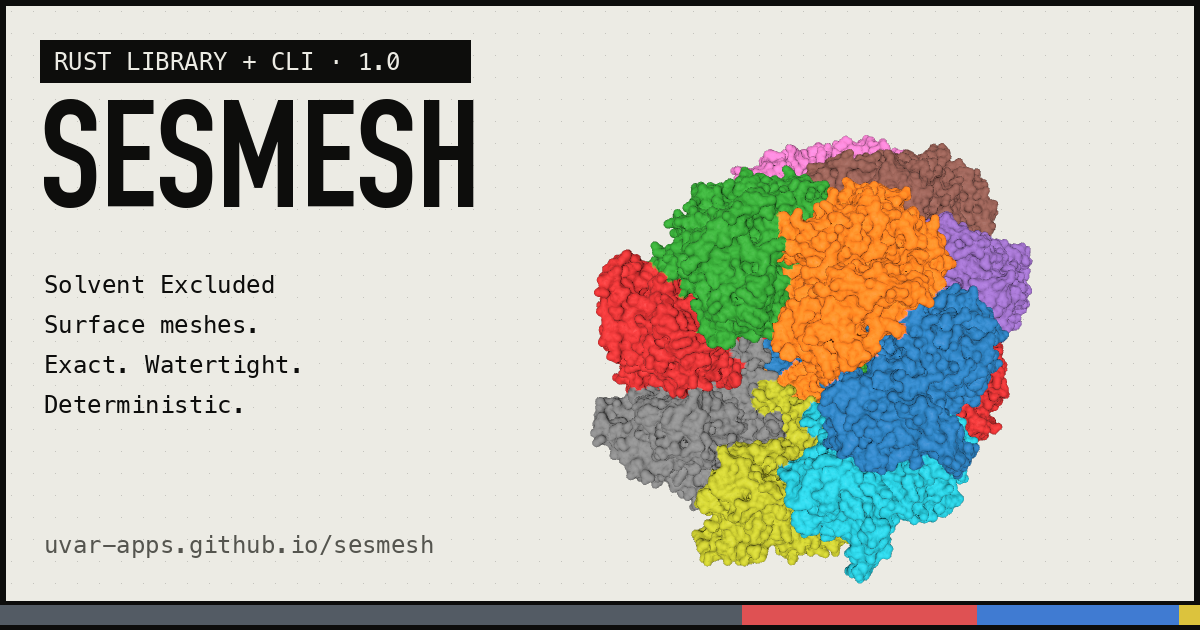
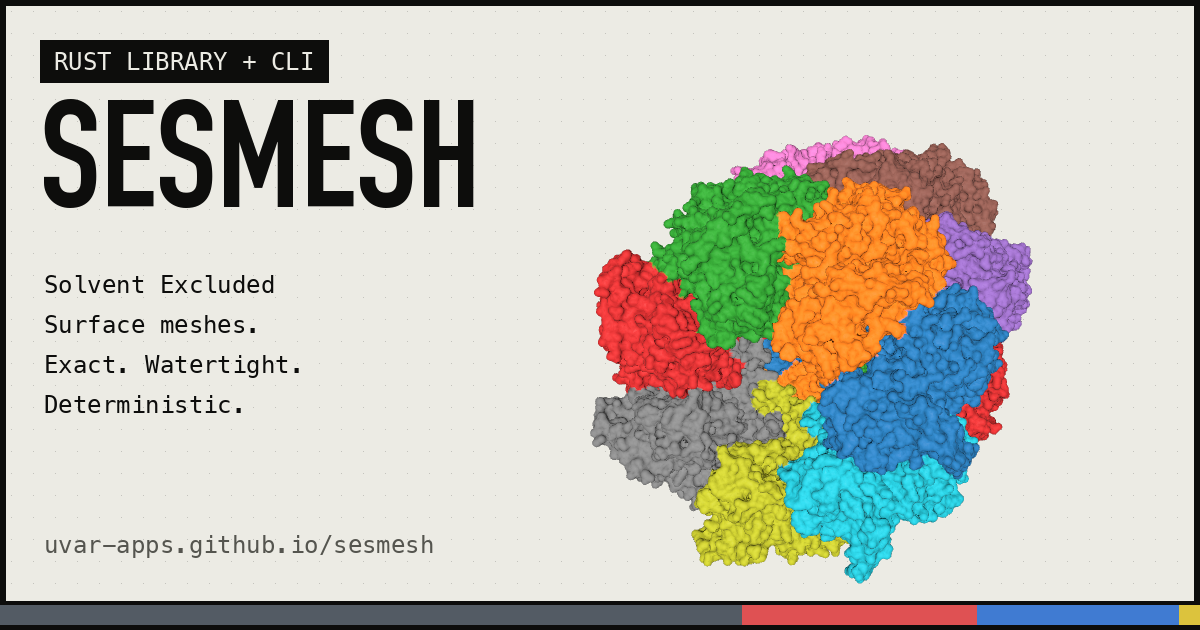
Update the website for 1.1.0
- Version badge, hero label and library notes say 1.1.0; every library
  snippet re-compiled against release-1.1.0 (examples unchanged).
- CLI guide: --drop-fragments (opt-in, 4HHB at 0.25 A: 32 components
  instead of 33) and the memory guard described as a conservative
  estimate of the whole run's peak, printed in the summary.
- Library guide: with_remove_fragments in the parameter table and the
  params snippet; stats mention removed fragments and the estimate.
- Capsid tutorial: 1.1.0 output under --max-memory 1G --auto-coarsen
  (grid 2.402 A, estimate 1008.2 MiB, measured peak about 0.65 GB).
- Social card label without a version (no re-render per release).

Changed region(s): [[0.2467, 0.0603, 0.4008, 0.1508]]

diff --git a/site/tutorials.html b/site/tutorials.html
@@ -15,7 +15,7 @@
 <body>
 
 <header class="top">
-  <a class="brand" href="./">sesmesh <small>1.0.0</small></a>
+  <a class="brand" href="./">sesmesh <small>1.1.0</small></a>
   <ul class="nav">
     <li><a href="./">Home</a></li>
     <li><a href="cli.html">CLI</a></li>
@@ -33,7 +33,7 @@
   <div class="wrap pagehead">
     <span class="label inv">Learn · four walkthroughs</span>
     <h1>Tuto<span class="knock">rials</span></h1>
-    <p class="lede">Four short, complete walkthroughs with real inputs from the PDB and the output they produce. Commands assume <code>sesmesh</code> 1.0 on your <code>PATH</code> (<code>cargo install sesmesh-cli</code>), plus <code>curl</code> and <code>jq</code>.</p>
+    <p class="lede">Four short, complete walkthroughs with real inputs from the PDB and the output they produce. Commands assume <code>sesmesh</code> 1.1 on your <code>PATH</code> (<code>cargo install sesmesh-cli</code>), plus <code>curl</code> and <code>jq</code>.</p>
   </div>
 </section>
 
@@ -115,14 +115,16 @@ for (chain, name, seq), a in sorted(area.items(), key=lambda kv: -kv[1])[:10]:
 <pre><code><span class="p">$ </span>curl -LO https://files.rcsb.org/download/1K4R.cif.gz
 <span class="p">$ </span>sesmesh info 1K4R.cif.gz
 <span class="c">chains: 3 (A:3028 B:3028 C:3028)</span>
-<span class="c">assemblies: 1 (60 copies), 2 (1 copy), 3 (5 copies), 4 (6 copies), 5 (1 copy)</span></code></pre></div></li><li><h3>Mesh 545 040 atoms</h3><p>The full dengue virus capsid at 1 Å: about 10 s and 9.9 million triangles on a 10-core laptop, peak memory ≈ 1.7 GB.</p><div class="code"><div class="code-head"><span>Shell</span><button type="button">Copy</button></div>
+<span class="c">assemblies: 1 (60 copies), 2 (1 copy), 3 (5 copies), 4 (6 copies), 5 (1 copy)</span></code></pre></div></li><li><h3>Mesh 545 040 atoms</h3><p>The full dengue virus capsid at 1 Å: about 10 s and 9.9 million triangles on a 10-core laptop, in under 2 GB of memory.</p><div class="code"><div class="code-head"><span>Shell</span><button type="button">Copy</button></div>
 <pre><code><span class="p">$ </span>sesmesh 1K4R.cif.gz --assembly 1 -q draft --progress --timings -o capsid.ply
 <span class="c">sesmesh: 4937664 vertices, 9883296 triangles, 1123 component(s) (1098 cavities), ...</span></code></pre></div></li><li><h3>Make it viewer-friendly</h3><p>Cap the triangle count and colour by chain; decimation keeps the surface exact where it keeps vertices.</p><div class="code"><div class="code-head"><span>Shell</span><button type="button">Copy</button></div>
 <pre><code><span class="p">$ </span>sesmesh 1K4R.cif.gz --assembly 1 -q draft --max-triangles 1500000 \
-<span class="c">    --vertex-colors chain -o capsid-1.5M.ply</span></code></pre></div></li><li><h3>Set a memory budget</h3><p>With <code>--max-memory</code> alone, inputs whose estimate exceeds the limit stop with exit code 4. Add <code>--auto-coarsen</code> to grow the spacing until the estimate fits; the spacing used is printed and stored in the file header.</p><div class="code"><div class="code-head"><span>Shell</span><button type="button">Copy</button></div>
+<span class="c">    --vertex-colors chain -o capsid-1.5M.ply</span></code></pre></div></li><li><h3>Set a memory budget</h3><p>Before any mesh exists, sesmesh estimates the peak memory of the whole run. With <code>--max-memory</code> alone, inputs whose estimate exceeds the limit stop with exit code 4. Add <code>--auto-coarsen</code> to grow the spacing until the estimate fits; the spacing used and the estimate are printed, and the statistics JSON records them (<code>engine.estimated_memory</code>, <code>engine.estimated_triangles</code>).</p><div class="code"><div class="code-head"><span>Shell</span><button type="button">Copy</button></div>
 <pre><code><span class="p">$ </span>sesmesh 1K4R.cif.gz --assembly 1 -q high --max-memory 1G --auto-coarsen \
 <span class="c">    --max-triangles 1500000 -o capsid.ply</span>
-<span class="c">sesmesh: ... 545040 atoms (model 1), ses surface, probe 1.40 Å, grid 1.918 Å</span></code></pre></div><div class="note hot">The limit applies to the <i>estimate</i> (150 bytes per triangle + 800 bytes per atom). The measured peak of this run was 1.46 GB — leave headroom.</div></li><li><h3>Stop any time</h3><p>Ctrl-C cancels within about 100 ms and exits with code 130.</p></li></ol>
+<span class="c">sesmesh: ... 545040 atoms (model 1), ses surface, probe 1.40 Å, grid 2.402 Å</span>
+<span class="c">sesmesh: estimated peak memory 1008.2 MiB (limit 1024.0 MiB, about 1837964 triangles before decimation)</span>
+<span class="c">sesmesh: 745560 vertices, 1500000 triangles, 979 component(s) (810 cavities), ...</span></code></pre></div><div class="note">The estimate is deliberately conservative: this run peaked at about 0.65 GB against an estimate of 1008 MiB. The grid chosen and the estimate are the same on every run and for any thread count.</div></li><li><h3>Stop any time</h3><p>Ctrl-C cancels within about 100 ms and exits with code 130.</p></li></ol>
     </section>
 
     <section id="rust">

diff --git a/site/library.html b/site/library.html
@@ -15,7 +15,7 @@
 <body>
 
 <header class="top">
-  <a class="brand" href="./">sesmesh <small>1.0.0</small></a>
+  <a class="brand" href="./">sesmesh <small>1.1.0</small></a>
   <ul class="nav">
     <li><a href="./">Home</a></li>
     <li><a href="cli.html">CLI</a></li>
@@ -33,7 +33,7 @@
   <div class="wrap pagehead">
     <span class="label inv">Guide · Rust crate</span>
     <h1>The <span class="knock">Library</span></h1>
-    <p class="lede">The engine behind the CLI as a crate: <code>sesmesh = "1"</code>. Every snippet on this page compiles against 1.0.0; the <a href="https://docs.rs/sesmesh">API reference</a> documents every public item.</p>
+    <p class="lede">The engine behind the CLI as a crate: <code>sesmesh = "1"</code>. Every snippet on this page compiles against 1.1.0; the <a href="https://docs.rs/sesmesh">API reference</a> documents every public item.</p>
   </div>
 </section>
 
@@ -138,6 +138,7 @@ assert_eq!(out.stats.components, <span class="n">1</span>);</code></pre></div>
     .with_spacing(<span class="n">0.25</span>)                    <span class="c">// grid spacing in Å</span>
     .with_cavities(CavityMode::Re<span class="k">move</span>)     <span class="c">// drop internal cavities</span>
     .with_smoothing(<span class="n">2</span>)                     <span class="c">// Taubin rounds + exact re-projection</span>
+    .with_remove_fragments(<span class="k">true</span>)           <span class="c">// drop sub-grid fragments (1.1)</span>
     .with_decimation(Decimation::ratio(<span class="n">0.25</span>).with_max_error(<span class="n">0.05</span>))
     .with_max_memory(<span class="n">4</span> &lt;&lt; <span class="n">30</span>)              <span class="c">// 4 GiB estimate limit …</span>
     .with_auto_coarsen(<span class="k">true</span>)               <span class="c">// … coarsen instead of failing</span>
@@ -147,6 +148,7 @@ assert_eq!(out.stats.components, <span class="n">1</span>);</code></pre></div>
         <tr><td><code>SurfaceParams::ses(r)</code>, <code>::sas(r)</code>, <code>::vdw()</code></td><td>Surface kind and probe radius</td></tr>
         <tr><td><code>with_spacing(h)</code>, <code>with_quality(Quality::High)</code>, <code>with_density(d)</code></td><td>Resolution: spacing in Å, preset, or vertices per Å²</td></tr>
         <tr><td><code>with_cavities(CavityMode::…)</code></td><td><code>Keep</code> (exact SES), <code>Remove</code>, <code>Only</code>; plus <code>with_min_cavity_volume</code>, <code>with_min_component_area</code></td></tr>
+        <tr><td><code>with_remove_fragments(true)</code></td><td>Drop sub-grid fragments: tiny solid components without a convex atom patch, cut off by the grid from re-entrant sheets thinner than the spacing (off by default, since 1.1)</td></tr>
         <tr><td><code>with_smoothing(n)</code></td><td>Taubin rounds, then exact re-projection</td></tr>
         <tr><td><code>with_decimation(Decimation::…)</code></td><td><code>ratio</code>, <code>with_max_triangles</code>, <code>with_max_error</code> (Å)</td></tr>
         <tr><td><code>with_max_memory(bytes)</code>, <code>with_auto_coarsen(true)</code></td><td>Memory guard: refuse, or coarsen until the estimate fits</td></tr>
@@ -165,7 +167,7 @@ assert_eq!(out.stats.components, <span class="n">1</span>);</code></pre></div>
         <tr><td><code>out.mesh.triangles</code></td><td><code>Vec&lt;[u32; 3]&gt;</code>, counter-clockwise seen from outside, grouped by component</td></tr>
         <tr><td><code>out.mesh.vertex_atom</code>, <code>.vertex_patch</code>, <code>.vertex_component</code></td><td>Nearest input sphere, patch (<code>PatchKind</code>: convex, saddle, concave), component index</td></tr>
         <tr><td><code>out.components</code></td><td>Per component: vertices, triangles, area, signed volume (cavities negative), Euler characteristic, first triangle</td></tr>
-        <tr><td><code>out.stats</code></td><td>Totals, spacing used, decimation, refine evaluations, SIMD kernel, stage timings</td></tr>
+        <tr><td><code>out.stats</code></td><td>Totals, spacing used, removed fragments, decimation, the memory guard's estimate, refine evaluations, SIMD kernel, stage timings</td></tr>
       </table></div>
       <p>Per-vertex colours and per-atom areas, the way the CLI computes them:</p>
       <div class="code"><div class="code-head"><span>Rust</span><button type="button">Copy</button></div>

diff --git a/site/cli.html b/site/cli.html
@@ -15,7 +15,7 @@
 <body>
 
 <header class="top">
-  <a class="brand" href="./">sesmesh <small>1.0.0</small></a>
+  <a class="brand" href="./">sesmesh <small>1.1.0</small></a>
   <ul class="nav">
     <li><a href="./">Home</a></li>
     <li><a href="cli.html" aria-current="page">CLI</a></li>
@@ -216,15 +216,21 @@ sesmesh: wrote 1crn.obj in 0.02 s</code></pre></div>
       <div class="code"><div class="code-head"><span>Shell</span><button type="button">Copy</button></div>
 <pre><code><span class="p">$ </span>sesmesh 1aon.cif.gz --cavities remove
 <span class="p">$ </span>sesmesh 1aon.cif.gz --cavities only --min-cavity-volume 10 -o pockets.obj
-<span class="p">$ </span>sesmesh 2ptn.pdb --min-component-area 5</code></pre></div>
+<span class="p">$ </span>sesmesh 2ptn.pdb --min-component-area 5
+<span class="p">$ </span>sesmesh 4hhb.cif.gz -q high --drop-fragments      <span class="c"># since 1.1</span></code></pre></div>
+      <p><code>--drop-fragments</code> removes sub-grid fragments: tiny solid components without a
+        convex atom patch that the grid cuts off from re-entrant sheets thinner than the spacing
+        (4HHB at 0.25 Å: 32 components instead of 33). It is off by default, so default output
+        is unchanged.</p>
     </section>
 
     <section id="big">
       <span class="label">09</span>
       <h2>Large structures</h2>
-      <p>Memory grows with surface area: about 150 bytes per triangle and 800 bytes per atom at
-        peak. Set a limit to refuse inputs that will not fit — or to coarsen the grid until they
-        do.</p>
+      <p>Memory grows with surface area. Before any mesh exists, sesmesh estimates the peak
+        memory of the whole run; <code>--max-memory</code> refuses inputs whose estimate exceeds the
+        limit, and <code>--auto-coarsen</code> coarsens the grid until it fits instead. The estimate
+        is deliberately conservative and is printed in the summary.</p>
       <div class="code"><div class="code-head"><span>Shell</span><button type="button">Copy</button></div>
 <pre><code><span class="p">$ </span>sesmesh 3j3q.cif.gz -q draft --progress --timings     <span class="c"># 2.44 M atoms</span>
 <span class="p">$ </span>sesmesh 3j3q.cif.gz -q high --max-memory 8G           <span class="c"># exit code 4 if too big</span>

diff --git a/site/index.html b/site/index.html
@@ -28,7 +28,7 @@
 <body>
 
 <header class="top">
-  <a class="brand" href="./">sesmesh <small>1.0.0</small></a>
+  <a class="brand" href="./">sesmesh <small>1.1.0</small></a>
   <ul class="nav">
     <li><a href="./" aria-current="page">Home</a></li>
     <li><a href="cli.html">CLI</a></li>
@@ -47,7 +47,7 @@
 <section class="hero">
   <div class="hero-text">
     <div>
-      <span class="label">Rust library + CLI · v1.0.0</span>
+      <span class="label">Rust library + CLI · v1.1.0</span>
       <h1 style="margin-top:22px">
         <span>Solvent</span>
         <span class="knock">Excluded</span>

diff --git a/site/404.html b/site/404.html
@@ -15,7 +15,7 @@
 <body>
 
 <header class="top">
-  <a class="brand" href="/sesmesh/">sesmesh <small>1.0.0</small></a>
+  <a class="brand" href="/sesmesh/">sesmesh <small>1.1.0</small></a>
   <ul class="nav">
     <li><a href="/sesmesh/">Home</a></li>
     <li><a href="/sesmesh/cli.html">CLI</a></li>

diff --git a/site/gallery.html b/site/gallery.html
@@ -22,7 +22,7 @@
 <body>
 
 <header class="top">
-  <a class="brand" href="./">sesmesh <small>1.0.0</small></a>
+  <a class="brand" href="./">sesmesh <small>1.1.0</small></a>
   <ul class="nav">
     <li><a href="./">Home</a></li>
     <li><a href="cli.html">CLI</a></li>

diff --git a/tools/site/og-card.py b/tools/site/og-card.py
@@ -31,8 +31,9 @@ for color, frac in CPK:
 d.line([0, H - 28, W, H - 28], fill=INK, width=4)
 big = ImageFont.truetype(DISPLAY, 150)
 mono = ImageFont.truetype(MONO, 24)
-d.rectangle([40, 40, 470, 82], fill=INK)
-d.text((54, 47), "RUST LIBRARY + CLI · 1.0", font=mono, fill=PAPER)
+label = "RUST LIBRARY + CLI"  # no version: the card outlives releases
+d.rectangle([40, 40, 68 + round(d.textlength(label, font=mono)), 82], fill=INK)
+d.text((54, 47), label, font=mono, fill=PAPER)
 d.text((40, 100), "SESMESH", font=big, fill=INK)
 for i, line in enumerate(["Solvent Excluded", "Surface meshes.", "Exact. Watertight.", "Deterministic."]):
     d.text((44, 270 + 40 * i), line, font=mono, fill=INK)

diff --git a/AGENTS.md b/AGENTS.md
@@ -90,7 +90,7 @@ any deviation from the plan.
 - Website: `site/` (static HTML/CSS/JS, brutalist style, deployed by `.github/workflows/pages.yml`
   from `main`; Pages source must be "GitHub Actions"), helper scripts and instructions in
   `tools/site/README.md` (`ply2web.py` display meshes, `gallery-meshes.sh`, `render.html` +
-  `capture.py` on port 8777, `og-card.py`). Library-page snippets were compiled against 1.0.0;
+  `capture.py` on port 8777, `og-card.py`). Library-page snippets were compiled against 1.1.0;
   re-check them when the API changes.
 - Docs: `docs/cli.md` (CLI manual), `docs/api-review.md` (API checklist, semver policy),
   `docs/release.md` (release process, v1.0 status), `.github/workflows/release.yml`

diff --git a/tools/site/README.md b/tools/site/README.md
@@ -8,7 +8,7 @@ and the two fonts load from jsDelivr and Google Fonts.
 | Path | Content |
 |---|---|
 | `site/index.html` | Home: hero with the live 3D viewer, features, CLI/library teaser, how it works, documentation links |
-| `site/cli.html`, `site/library.html` | Guides (every Rust snippet on the library page compiles against 1.0.0) |
+| `site/cli.html`, `site/library.html` | Guides (every Rust snippet on the library page compiles against 1.1.0) |
 | `site/tutorials.html` | Four walkthroughs with real inputs and outputs |
 | `site/gallery.html` | Live viewer + figures with the command behind each |
 | `site/render.html` | Still renderer for the display meshes (not linked from the menu) |
